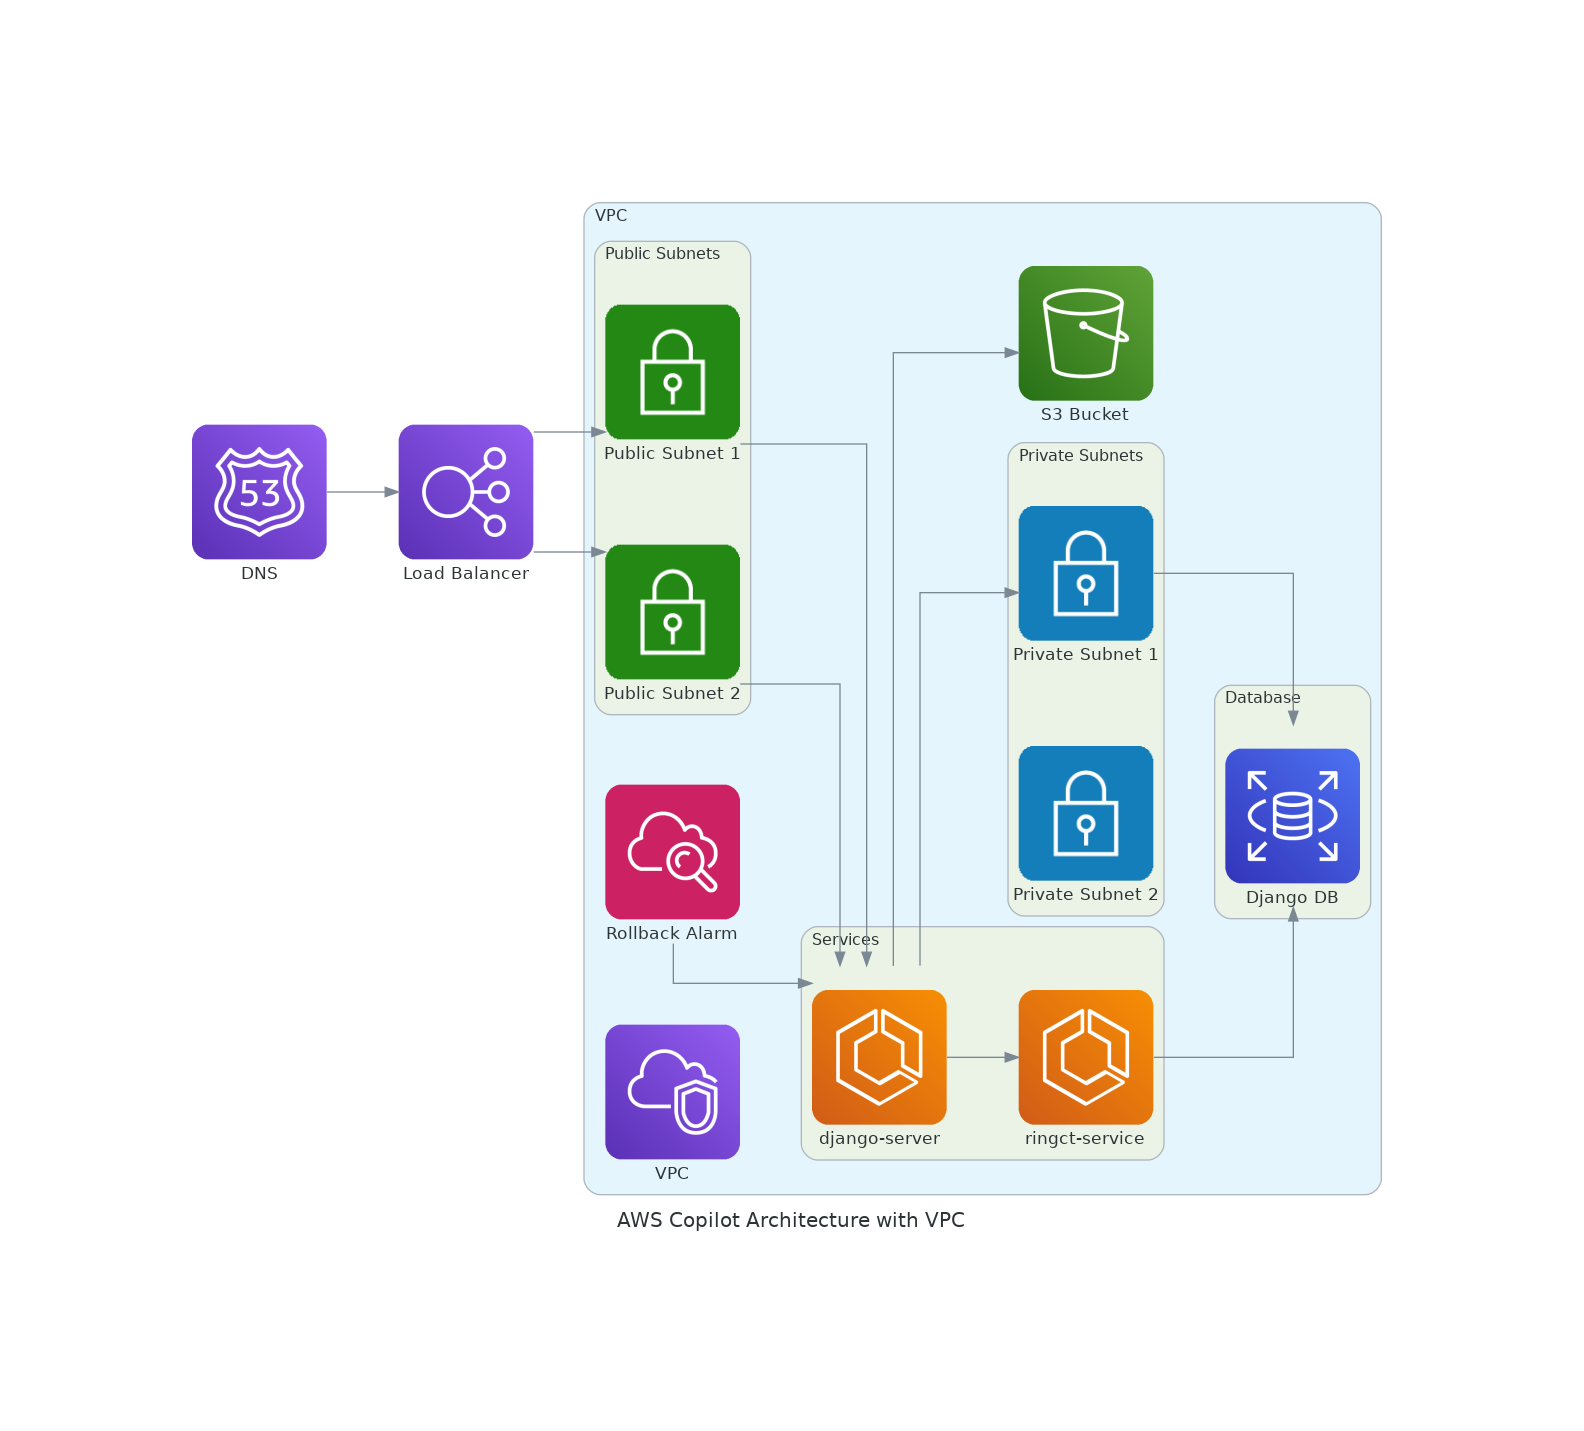
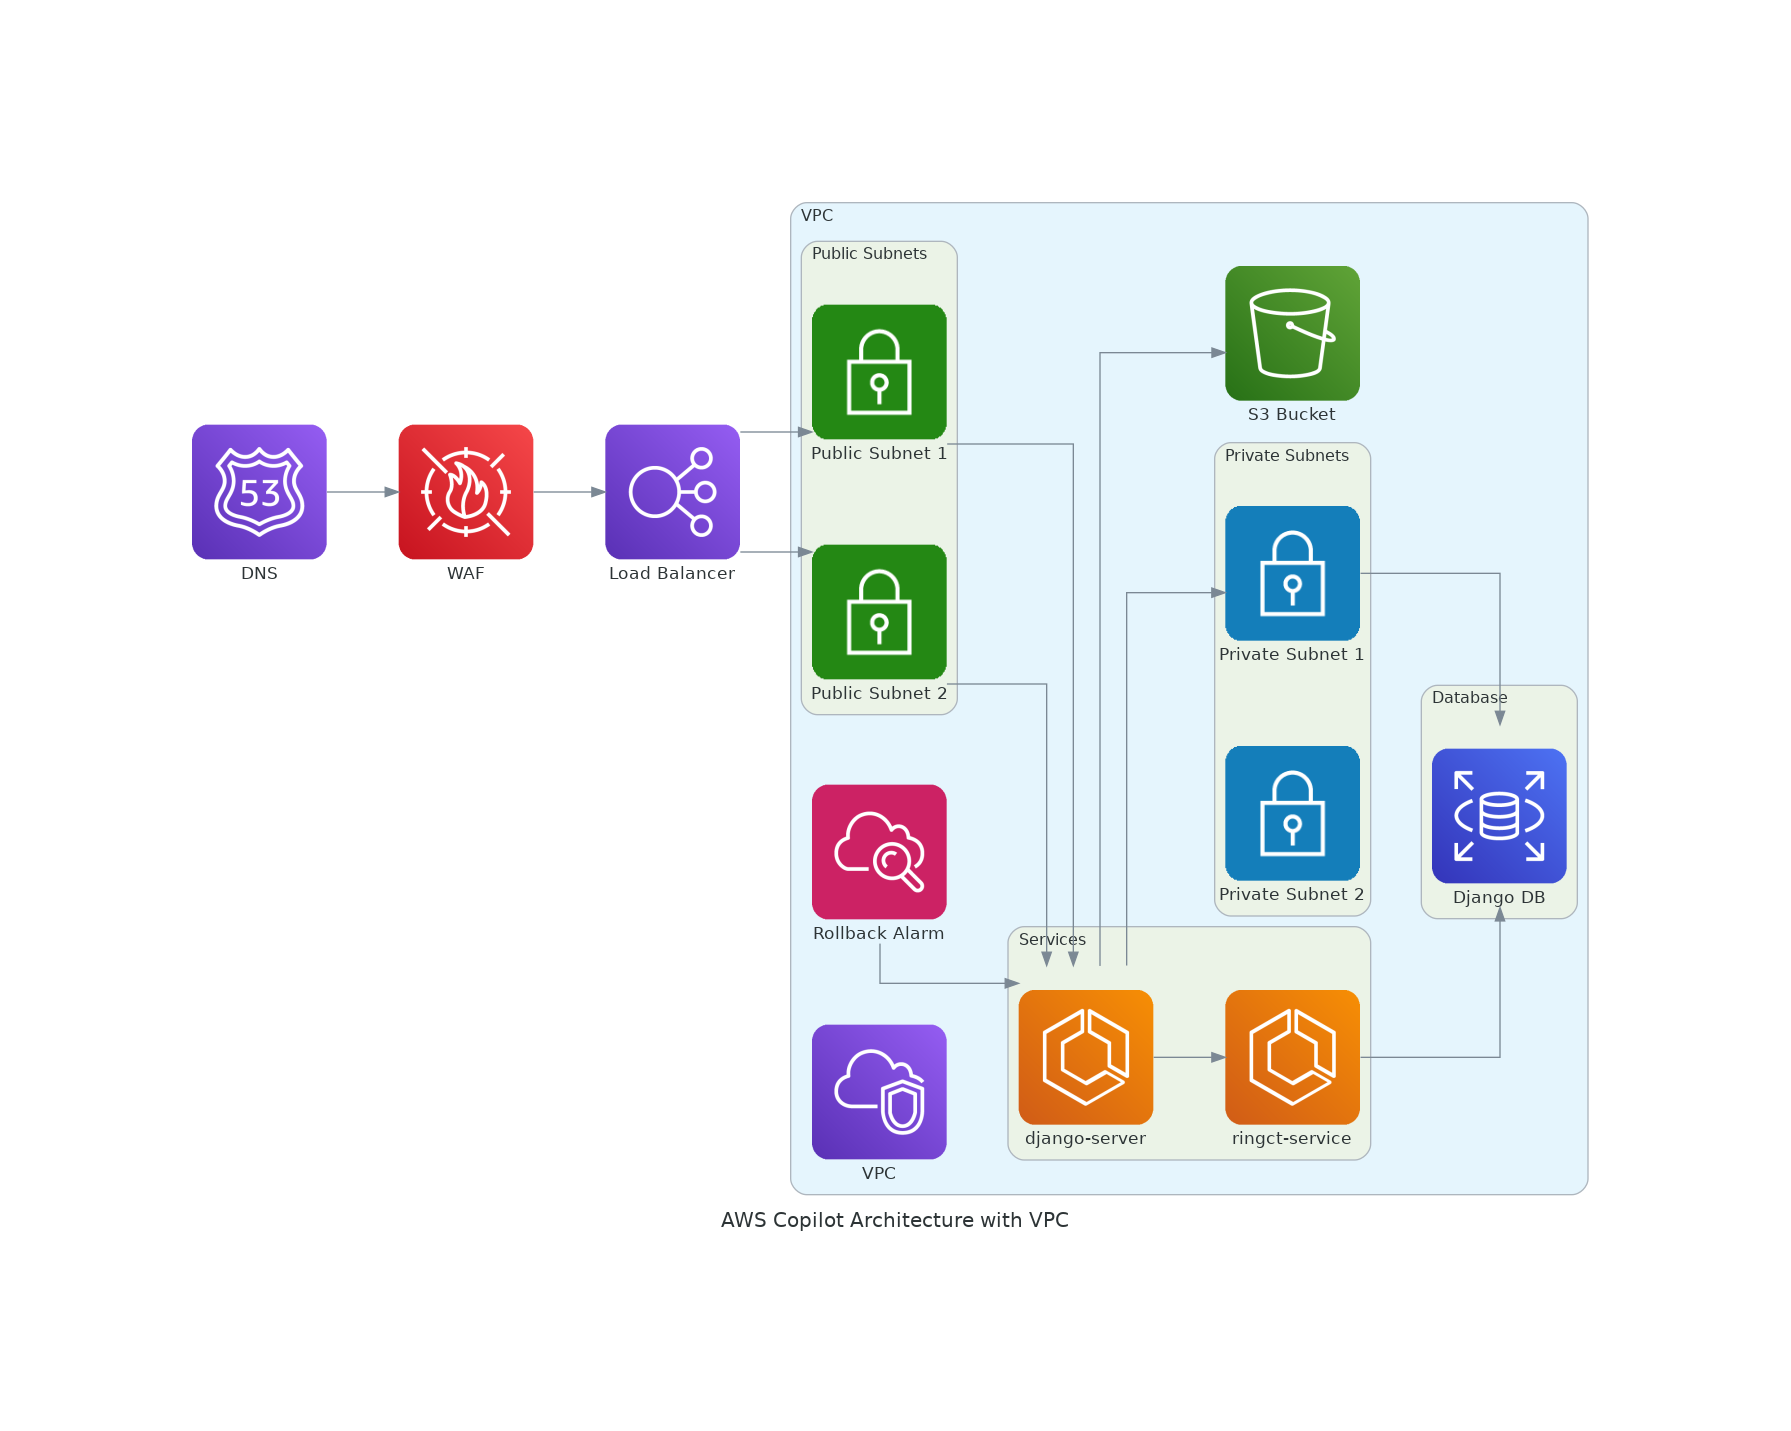
[15] fix admin3 and update deployment diagram

diff --git a/evoting/ringct/test/test_hash.cpp b/evoting/ringct/test/test_hash.cpp
@@ -55,13 +55,10 @@ SCENARIO("Test the consistency of the hash to point function", "[hash]")
     const string base_file = filesystem::absolute("/app/test/text/hash_infile");
     // contain expected output
     const string h2p_file = filesystem::absolute("/app/test/text/h2p.txt");
-
     GIVEN("The input files and the expected output")
     {
         ifstream infile(base_file);
-
         REQUIRE(infile.is_open());
-
         string aline;
         int i = 0;
         while (getline(infile, aline))
@@ -69,10 +66,9 @@ SCENARIO("Test the consistency of the hash to point function", "[hash]")
             vector<BYTE> input_hex_byte;
             input_hex_byte.resize(aline.size() / 2);
 
-            if (aline == "x")
-            {
+            if (aline == "x"){
                 input_hex_byte.resize(0);
-            }
+                }
             else
             {
                 hex_to_bytearray(input_hex_byte.data(), aline);
@@ -88,7 +84,6 @@ SCENARIO("Test the consistency of the hash to point function", "[hash]")
                 {
                     REQUIRE(crypto_core_ed25519_is_valid_point(h2p) == 1);
                 }
-
                 WHEN("the same input is recomputed again " + to_string(i))
                 {
                     BYTE h2p_recomputed[32];

diff --git a/evoting/infra/diagram/deployment.py b/evoting/infra/diagram/deployment.py
@@ -2,6 +2,7 @@ from diagrams import Diagram, Cluster, Edge
 from diagrams.aws.compute import ECS
 from diagrams.aws.network import ELB, Route53, VPC, PrivateSubnet, PublicSubnet
 from diagrams.aws.database import RDS
+from diagrams.aws.security import WAF
 from diagrams.aws.storage import S3
 from diagrams.aws.management import Cloudwatch
 
@@ -20,6 +21,7 @@ private_subnets = ["subnet-0245f136b4ccbf00a", "subnet-09b75374054a5de3c"]
 with Diagram("AWS Copilot Architecture with VPC", show=False):
     dns = Route53("DNS")
     lb = ELB("Load Balancer")
+    waf = WAF("WAF")
 
     with Cluster("VPC"):
         vpc = VPC("VPC")
@@ -42,7 +44,7 @@ with Diagram("AWS Copilot Architecture with VPC", show=False):
         s3 = S3("S3 Bucket")
         alarm = Cloudwatch("Rollback Alarm")
 
-        dns >> lb >> [public_subnet1, public_subnet2] >> django_server
+        dns >> waf >> lb >> [public_subnet1, public_subnet2] >> django_server
         django_server >> private_subnet1 >> db
         django_server >> s3
         django_server >> ringct_service

diff --git a/evoting/myapp/management/commands/create_admin_acc.py b/evoting/myapp/management/commands/create_admin_acc.py
@@ -28,7 +28,7 @@ class Command(BaseCommand):
             password=make_password('Admin2Password$!'),  
             role=admin_profile[0]
             )
-        if not UserAccount.objects.filter(username='admin2').exists():
+        if not UserAccount.objects.filter(username='admin3').exists():
             UserAccount.objects.create(
             username='admin3',
             full_name='Chandler',

diff --git a/evoting/myapp/management/commands/config.py b/evoting/myapp/management/commands/config.py
@@ -1,6 +1,6 @@
 districts_mocked = ['CLEMENTI', 'JURONG EAST', 'CENTRAL']
-voternum_per_district = 50 # for stress test
-# voternum_per_district = 20 # for normal deployment
+# voternum_per_district = 50 # for stress test
+voternum_per_district = 20 # for normal deployment
 # voternum_per_district = 500 # for sql performance test
 candidate_num_total = 15
 randomseed = 9
